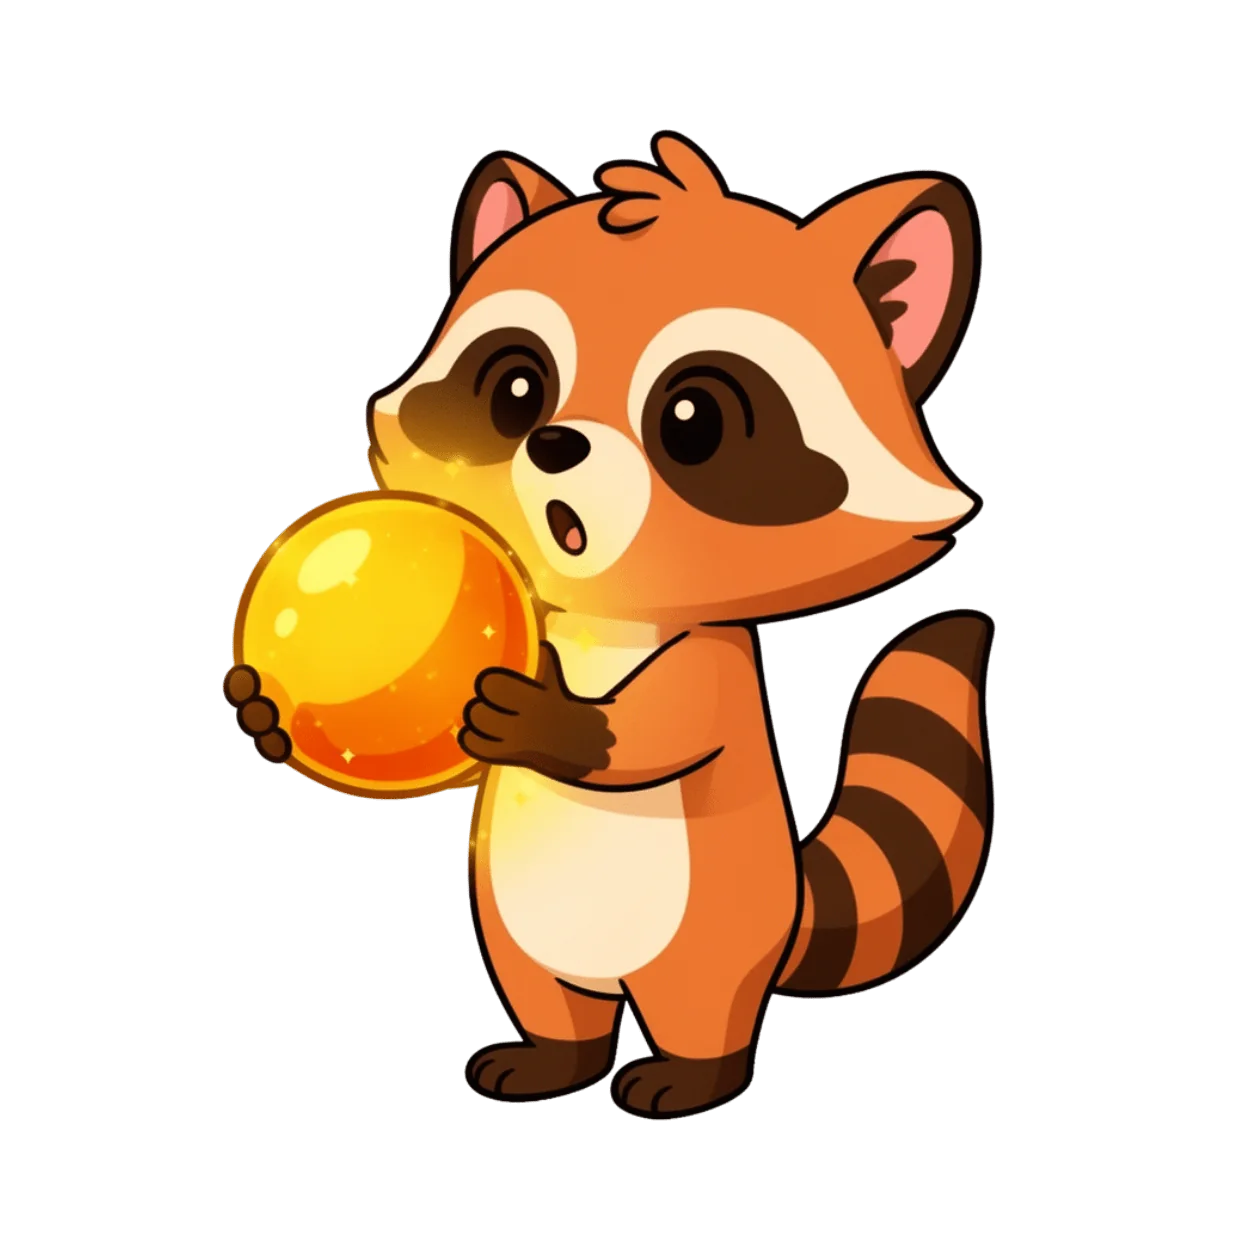
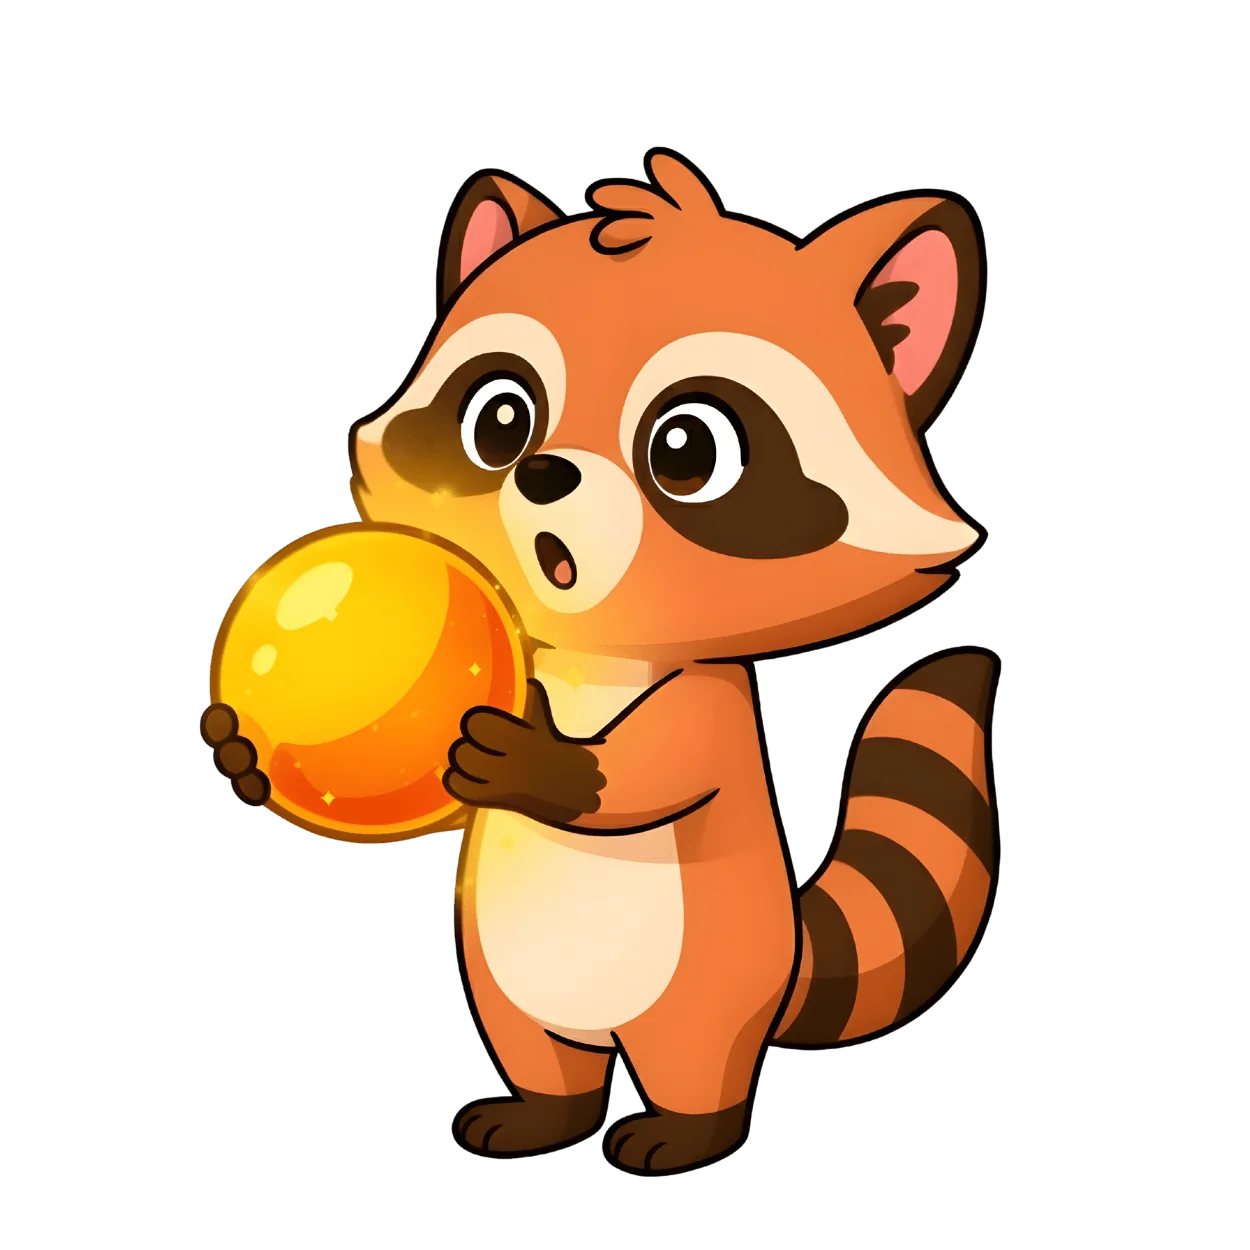
Changes

Changed region(s): [[0.156, 0.0936, 0.8112, 0.9672]]

diff --git a/src/pages/Onboarding.tsx b/src/pages/Onboarding.tsx
@@ -10,7 +10,7 @@ import { supabase } from "@/integrations/supabase/client";
 import { z } from "zod";
 import logoText from "@/assets/one-hello-logo-text.png";
 import remiMascot from "@/assets/remi-waving.webp";
-import orbImage from "@/assets/orb.webp";
+import remiHoldingOrb from "@/assets/remi-holding-orb.webp";
 import {
   Select,
   SelectContent,
@@ -518,7 +518,7 @@ export default function Onboarding() {
           {step === 9 && (
             <div className="space-y-6 animate-in fade-in slide-in-from-bottom-4">
               <div className="text-center">
-                <img src={orbImage} alt="Orb" className="w-24 h-24 mx-auto mb-4 object-contain" />
+                <img src={remiHoldingOrb} alt="Remi with Orb" className="w-32 h-auto max-h-32 mx-auto mb-4 object-contain" />
                 <h2 className="text-2xl font-bold text-foreground mb-3">
                   Complete Day 1 to earn your first Orb.
                 </h2>
